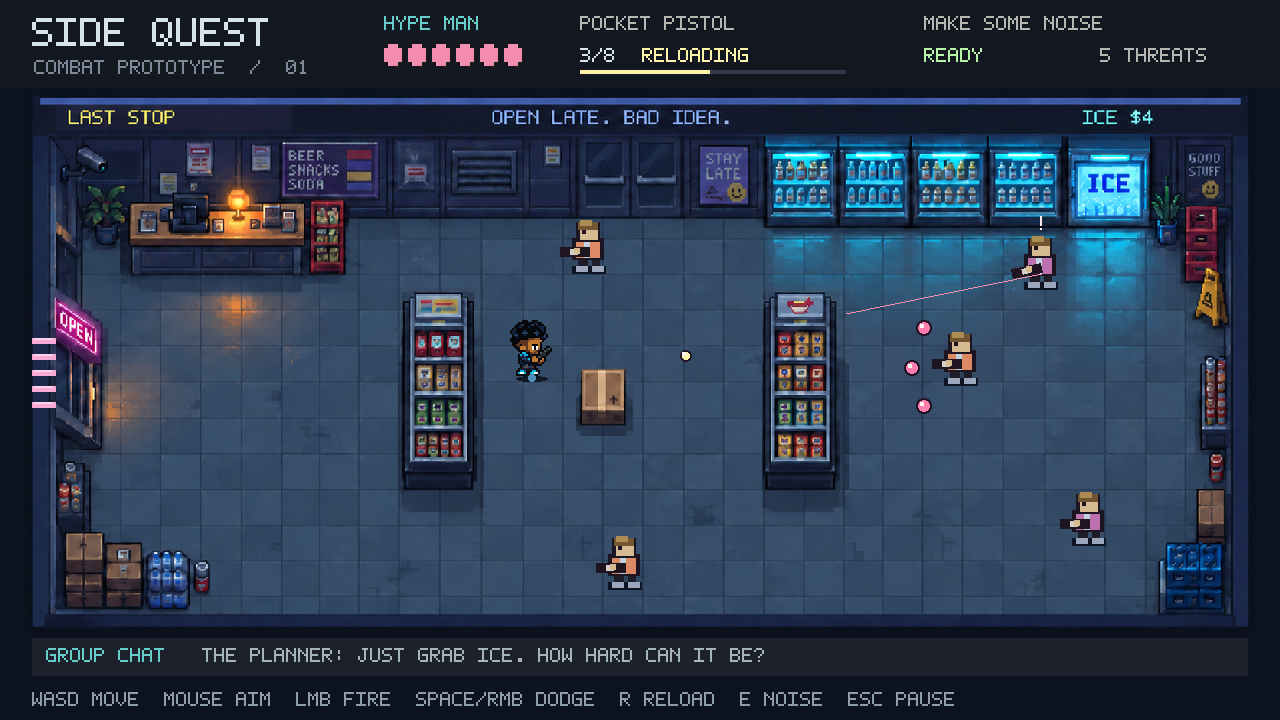
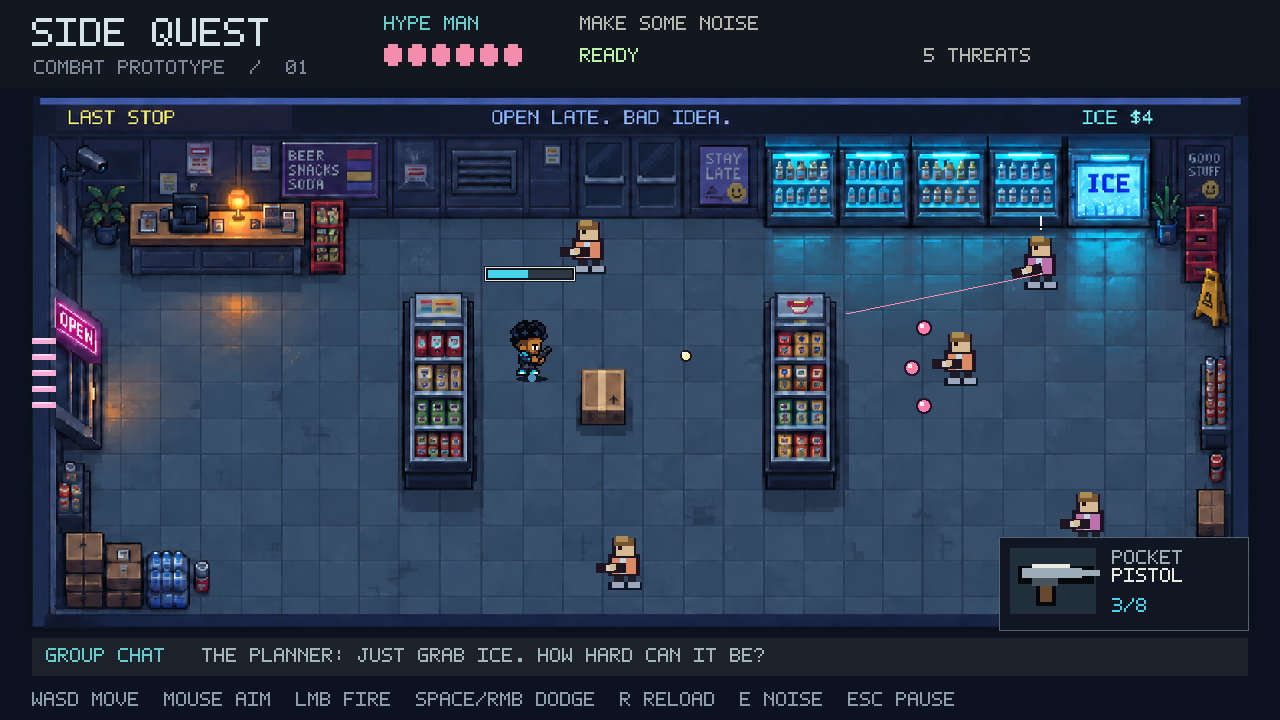
Move reload and weapon HUD to combat positions

diff --git a/docs/hud-placement-pass.md b/docs/hud-placement-pass.md
@@ -1,0 +1,21 @@
+# Combat HUD placement pass
+
+29 September 2026. The user supplied an Enter the Gungeon screenshot as a placement and style reference. In it, reload progress sits just above the character, while the equipped gun and clip count sit at the lower right. Side Quest uses those information positions with its own Pocket Pistol icon and existing cool navy, cyan, cream, and muted metal palette.
+
+## Implemented
+
+- A 42-pixel reload meter follows Hype Man's head during an active reload. It fills according to the existing reload timer, stays within the playable view at room edges, and disappears when reload ends or the player dies.
+- The lower-right weapon panel displays an original pixel Pocket Pistol silhouette, its name, and current rounds over magazine capacity. Ammo comes from live player state; capacity comes from game configuration.
+- The previous top-strip weapon, ammo, and reload display was removed. Ability readiness and threat count now use that space. The group-chat and control strips remain legible.
+
+## Evidence and review state
+
+GameMaker LTS compiled and passed 105 gameplay/animation checks, the input-adapter check, and the runtime smoke test. Log: `work/test-c018b6ecdd0c4ba5957db21923e9d83c.log` (ignored local build output). Actual 1280×720 engine captures: [combat](../art/hypeman-v8-proof/review-v9/game-renders/combat.png) and [reload](../art/hypeman-v8-proof/review-v9/game-renders/reload.png). Both use 640×360 native game coordinates at 2× display size. The reload capture shows the bar over the player and the updated count at lower right.
+
+Technical integration and in-context legibility have been checked. Creator visual acceptance and live play with keyboard and physical controller are pending. The panel may be refined after those reviews, especially if it hides an important encounter cue at the lower-right edge.
+
+## Process note
+
+Transfer information hierarchy and placement from a reference, then redraw the symbol in the project's own palette and pixel scale. Verify the actual engine framebuffer: the HUD can look tidy in isolation while colliding with the room, chat, or projectiles.
+
+Newtype source: pixel-art UI practice, style selection, and pixel-art quality checklist. Runtime skill: `pixel-art-ui-skill`. No Newtype agent was used.
